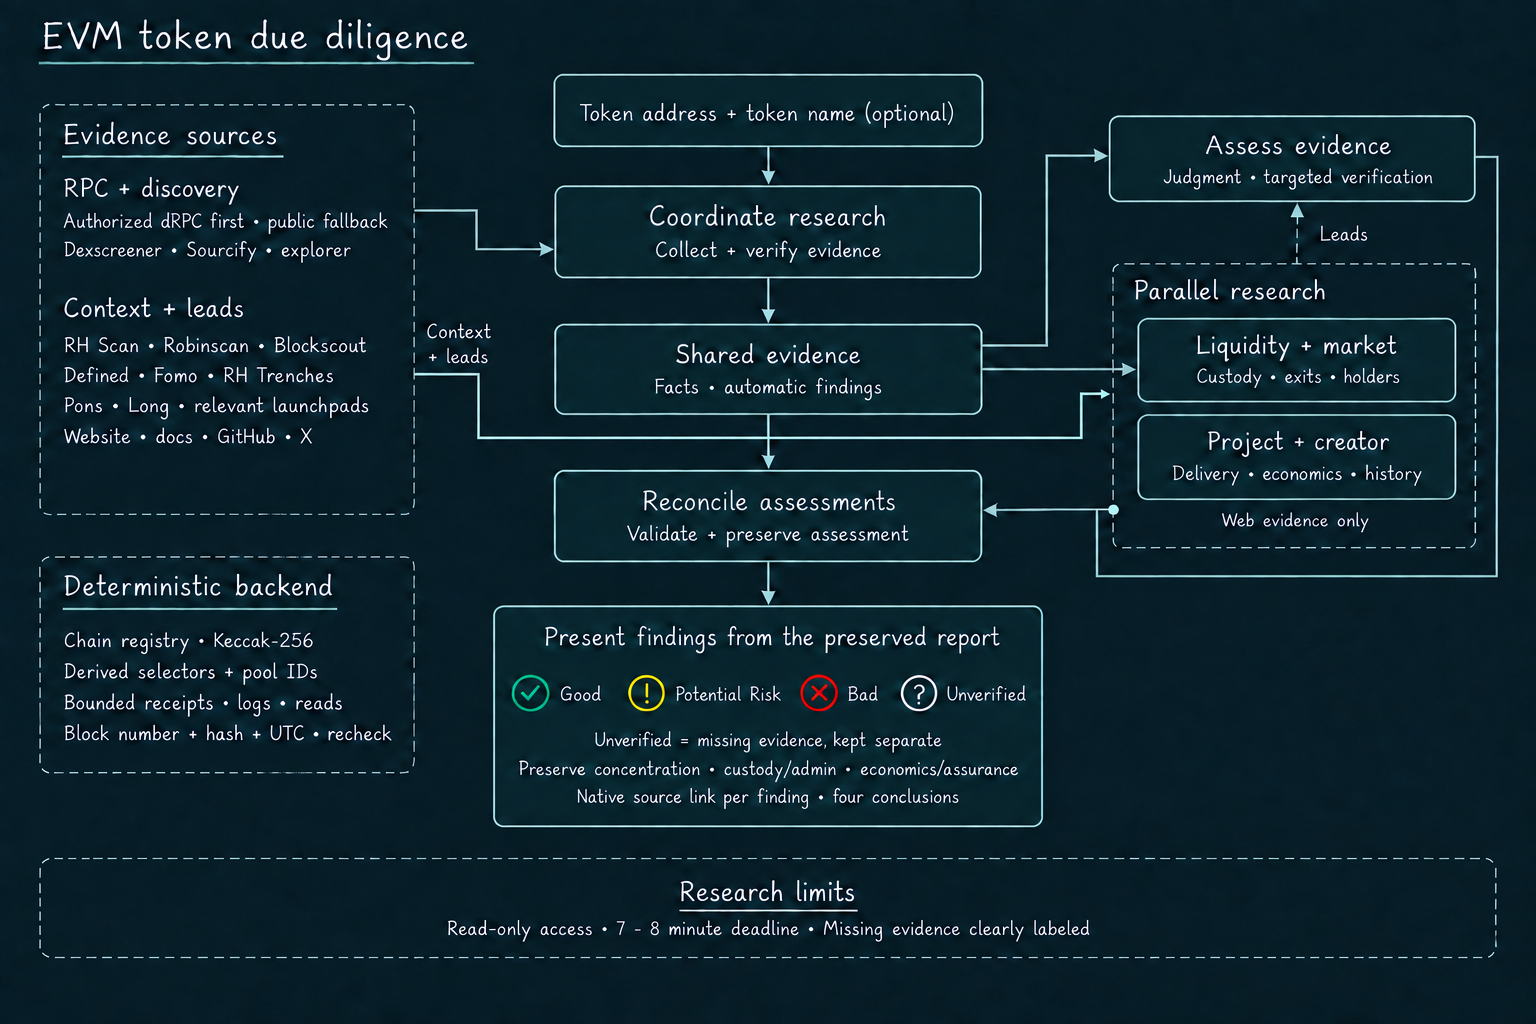
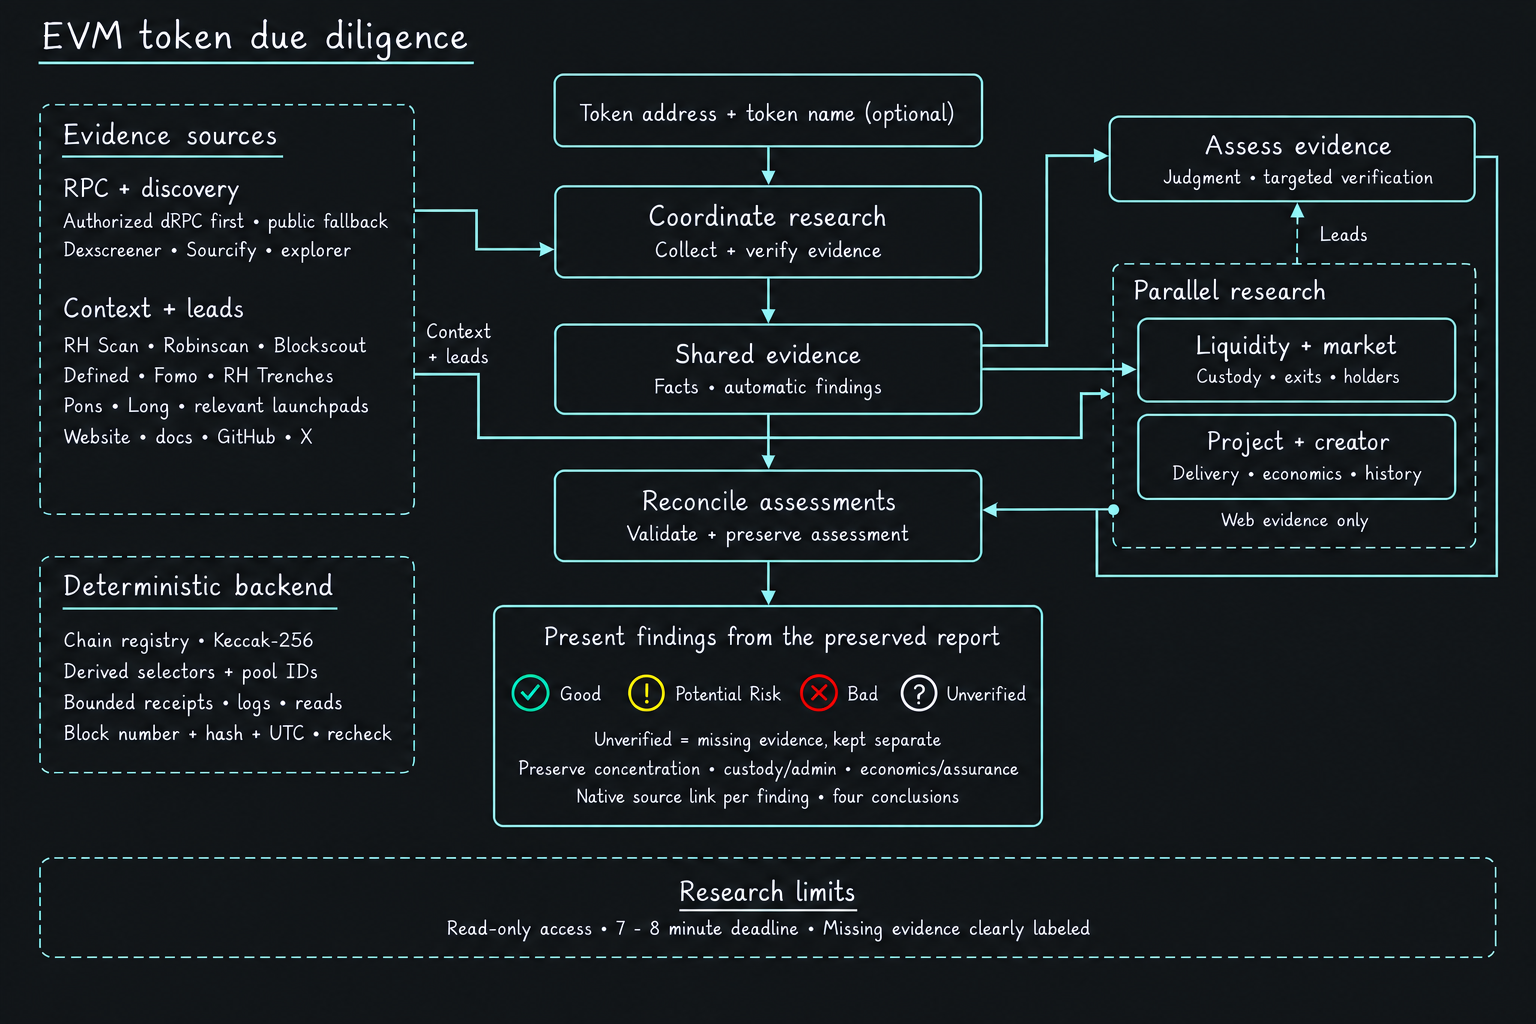
docs: adopt Carbon backgrounds across architecture diagrams

diff --git a/docs/diagrams/crypto-token-diligence-architecture.html b/docs/diagrams/crypto-token-diligence-architecture.html
@@ -4,7 +4,7 @@
 <meta name="viewport" content="width=device-width, initial-scale=1">
 <title>Crypto token due diligence architecture</title>
 <style>
-body { margin: 0; padding: 24px; background: #061c26; color: #edf4f6; font: 16px system-ui, sans-serif; }
+body { margin: 0; padding: 24px; background: #141619; color: #edf4f6; font: 16px system-ui, sans-serif; }
 main { max-width: 1536px; margin: auto; }
 img { display: block; width: 100%; height: auto; }
 nav { display: flex; justify-content: center; gap: 24px; margin-top: 20px; }

diff --git a/docs/diagrams/token-diligence-architecture.prompts.md b/docs/diagrams/token-diligence-architecture.prompts.md
@@ -1,5 +1,22 @@
 # Token diligence architecture diagrams
 
+## Carbon background — current default
+
+The user selected the Carbon study as the default for all three diagrams.
+The combined diagram promotes that approved study directly, retaining the
+4608 × 3072 export from its 1536 × 1024 native image. Resampling adds no detail.
+EVM and Solana were edited separately with built-in image_gen, using their
+existing diagrams as content references and Carbon as the background reference.
+Both specialist outputs are 1536 × 1024. Visual review checked wording, layout,
+source inventories, connectors and footers. README keeps its stable image paths;
+the HTML viewer also uses Carbon (#141619). Background study files were removed.
+
+Specialist edit prompt:
+
+```text
+Use case: style-transfer. Image 1 is the EDIT TARGET architecture diagram. Image 2 is ONLY the approved Carbon BACKGROUND reference. Change ONLY image 1's background and box-interior surfaces to match image 2's near-black neutral graphite Carbon, base #141619, matte smooth with no texture or glow. Preserve every foreground word, handwriting, size, placement, box, dashed border, connector, arrowhead, underline and colored symbol from IMAGE 1 exactly. Do not copy image 2's content or layout. No added/omitted text, no redesign, no shadows or blurring. Preserve full 3:2 canvas, sharp legibility, white text and pale cyan lines, original green/yellow/red/white finding symbols. Footer stays 'Read-only access · 7 - 8 minute deadline · Missing evidence clearly labeled'. Highest available native resolution. Output single complete edited diagram.
+```
+
 ## Earlier background with sharper foreground
 
 The user requested the earlier navy background character with the cleaner render's
